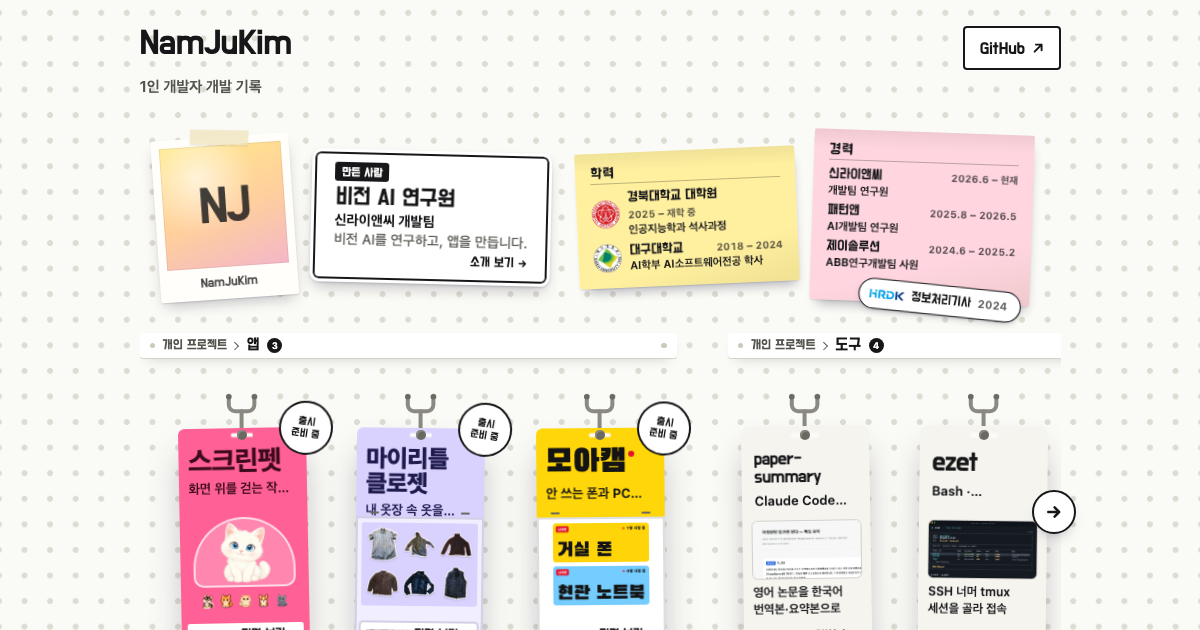
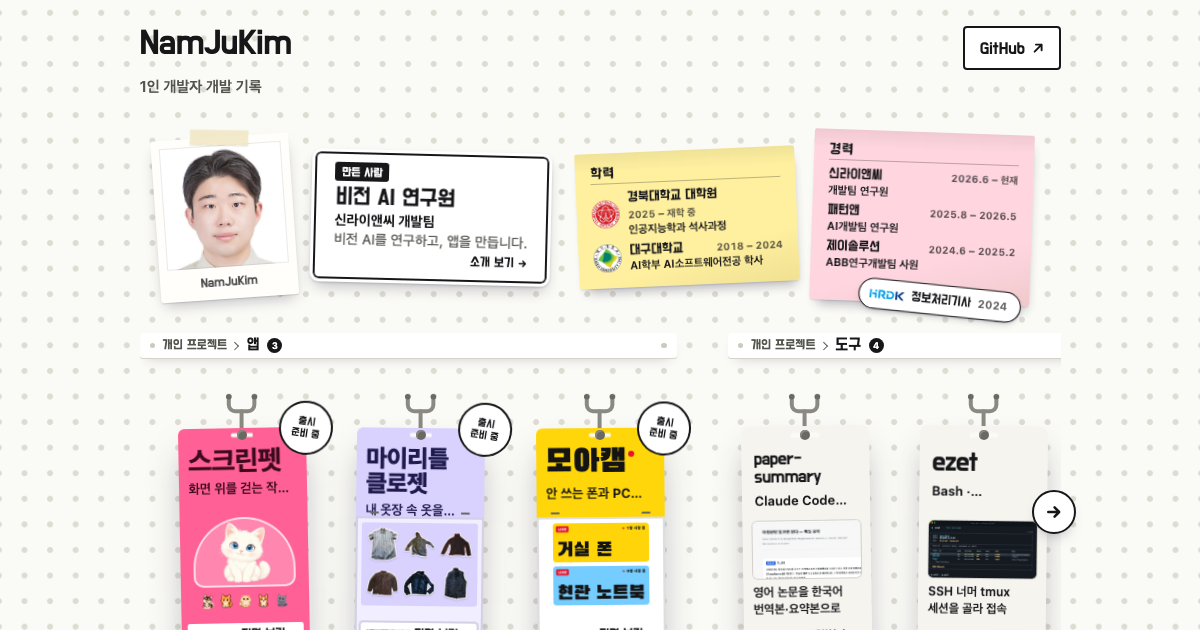
폴라로이드에 실제 사진을 넣음
- 사용자가 준 증명사진을 머리 위부터 옷깃까지 정사각형으로 자르고, 양옆은 같은 흰 배경으로 덧대
  assets/img/profile.webp(400×400)로 줄였다. 위치·기기 같은 메타데이터는 없다.
- 흰 바탕 사진이 폴라로이드 틀과 섞이지 않게 사진 위에 옅은 안쪽 선을 덧댄다.
- og.png 를 다시 찍었다.

Changed region(s): [[0.1233, 0.2111, 0.2467, 0.4524]]

diff --git a/assets/site.css b/assets/site.css
@@ -358,6 +358,7 @@ a {
     rotateY(var(--ry)) translateZ(calc(var(--lift) * 8px));
 }
 .polaroid__pic {
+  position: relative;
   display: grid;
   place-items: center;
   aspect-ratio: 1;
@@ -365,7 +366,14 @@ a {
   background:
     radial-gradient(circle at 30% 26%, rgb(255 255 255 / 0.65), transparent 46%),
     linear-gradient(160deg, #ffe98a, #ffcf9e 55%, #f4b7c8);
-  box-shadow: inset 0 0 0 1px rgb(52 48 70 / 0.08);
+}
+/* 사진 둘레의 옅은 선. 사진 위에 덧대야 흰 바탕 사진(증명사진)도 폴라로이드 틀과 경계가 보인다. */
+.polaroid__pic::after {
+  content: "";
+  position: absolute;
+  inset: 0;
+  box-shadow: inset 0 0 0 1px rgb(52 48 70 / 0.1);
+  pointer-events: none;
 }
 .polaroid__pic img {
   width: 100%;

diff --git a/index.html b/index.html
@@ -34,7 +34,7 @@
 </header>
 <main id="apps" class="aisles">
 <section class="maker" aria-label="만든 사람">
-<a class="maker__photo polaroid" href="/about/" tabindex="-1" aria-hidden="true" data-sway><span class="polaroid__pic"><span class="maker__mono">NJ</span></span><span class="polaroid__cap">NamJuKim</span></a>
+<a class="maker__photo polaroid" href="/about/" tabindex="-1" aria-hidden="true" data-sway><span class="polaroid__pic"><img src="/assets/img/profile.webp" width="400" height="400" alt=""></span><span class="polaroid__cap">NamJuKim</span></a>
 <a class="maker__card" href="/about/">
   <span class="maker__tag">만든 사람</span>
   <strong class="maker__role">비전 AI 연구원</strong>

diff --git a/README.md b/README.md
@@ -52,7 +52,7 @@ python3 -m http.server 8765    # http://127.0.0.1:8765 에서 미리 보기
 ### 진열대(`tool/shelf.json`)
 
 - `profile`은 맨 위 벽에 붙인 스티커 묶음입니다.
-  - 폴라로이드 사진: `photo`에 그림 주소를 넣으면 그 사진이, 비워 두면 `monogram` 글자가 나옵니다. 아래 여백 글씨는 `caption`입니다. 크기는 `assets/site.css`의 `--pw`(구멍 간격의 몇 배)이고, 테두리·글자·테이프가 따라 큽니다.
+  - 폴라로이드 사진: `photo`에 그림 주소를 넣으면 그 사진이, 비워 두면 `monogram` 글자가 나옵니다. 지금 사진은 `assets/img/profile.webp`(정사각형 400×400, 메타데이터 없음)입니다. 아래 여백 글씨는 `caption`입니다. 크기는 `assets/site.css`의 `--pw`(구멍 간격의 몇 배)이고, 테두리·글자·테이프가 따라 큽니다.
   - 사진과 포스트잇은 봉지처럼 움직입니다. 화면을 굴리면 붙인 윗변을 축으로 봉지의 반만큼 흔들리고, PC에서 마우스를 대면 손이 가까운 쪽이 벽에서 살짝 들립니다. 이름표는 통째로 붙인 스티커라 움직이지 않습니다.
   - 이름표: `label`, `role`, `org`, `line`. 누르면 `href`(소개 페이지)로 갑니다.
   - `stickers`:
